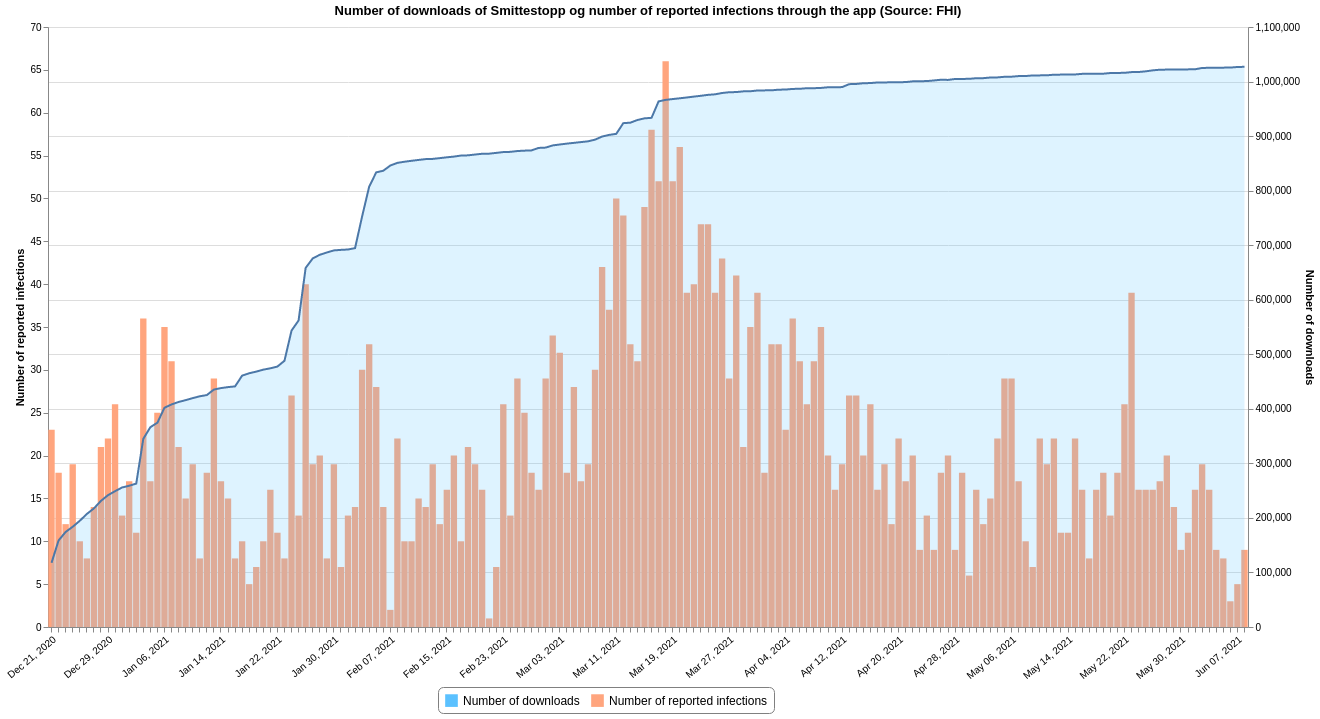
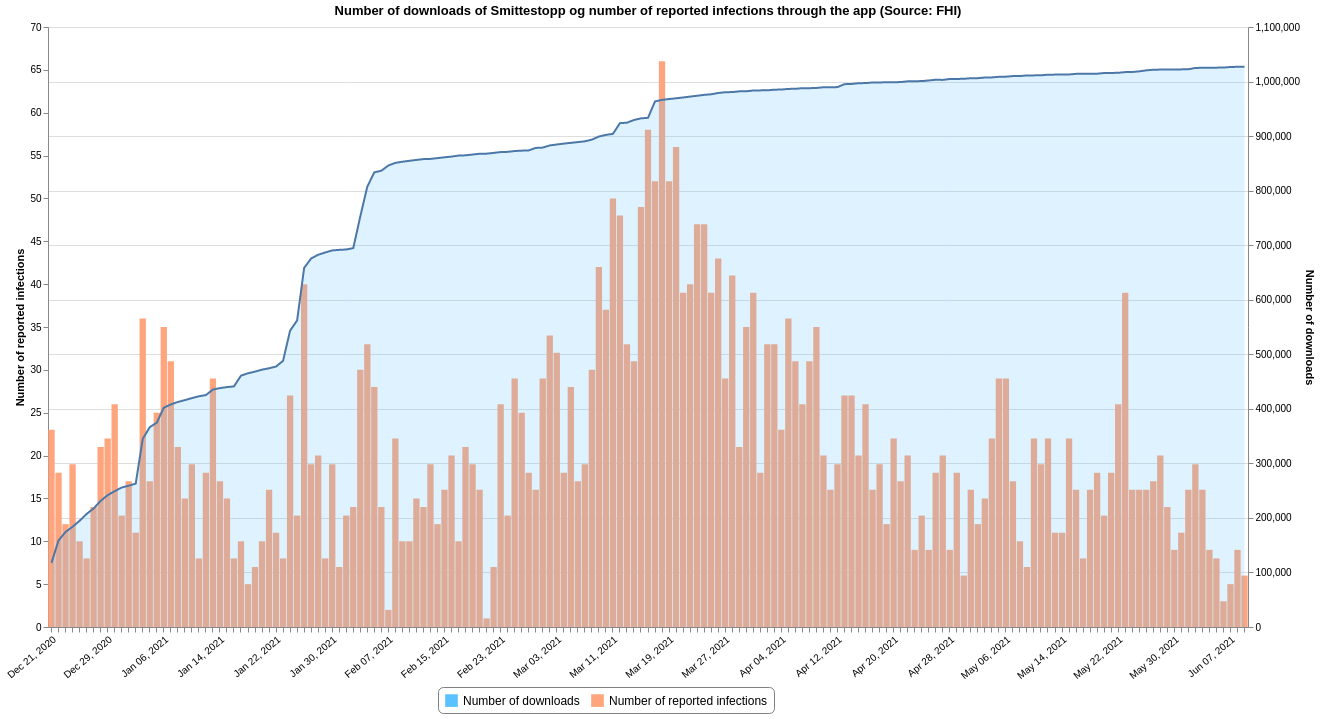
Updated 2021-06-10 09:51

diff --git a/README.md b/README.md
@@ -17,7 +17,7 @@ This repository contains datasets of daily time-series data related to COVID-19 
 |[Tested Lab](#tested_labcsv)|FHI|2021-06-09 13:20:48+02:00|[<center>csv</center>](https://raw.githubusercontent.com/frefrik/c19norge-data/main/data/tested_lab.csv)|[<center>preview</center>](data/tested_lab.csv)|
 |[Transport](#transportcsv)|FHI|2021-06-09 18:10:55+02:00|[<center>csv</center>](https://raw.githubusercontent.com/frefrik/c19norge-data/main/data/transport.csv)|[<center>preview</center>](data/transport.csv)|
 |[Vaccine Doses](#vaccine_dosescsv)|FHI|2021-06-09 13:20:54+02:00|[<center>csv</center>](https://raw.githubusercontent.com/frefrik/c19norge-data/main/data/vaccine_doses.csv)|[<center>preview</center>](data/vaccine_doses.csv)|
-|[Smittestopp](#smittestoppcsv)|FHI|2021-06-09 09:20:55+02:00|[<center>csv</center>](https://raw.githubusercontent.com/frefrik/c19norge-data/main/data/smittestopp.csv)|[<center>preview</center>](data/smittestopp.csv)|
+|[Smittestopp](#smittestoppcsv)|FHI|2021-06-10 09:50:57+02:00|[<center>csv</center>](https://raw.githubusercontent.com/frefrik/c19norge-data/main/data/smittestopp.csv)|[<center>preview</center>](data/smittestopp.csv)|
 <!-- table ends -->
 
 ## Datafiles
